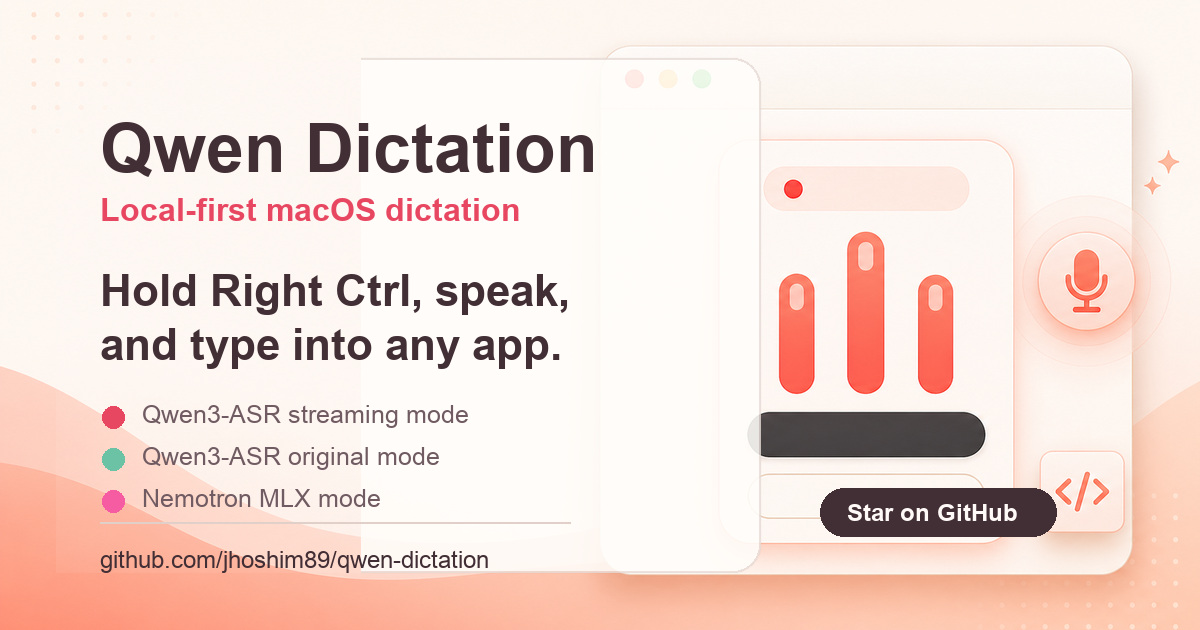
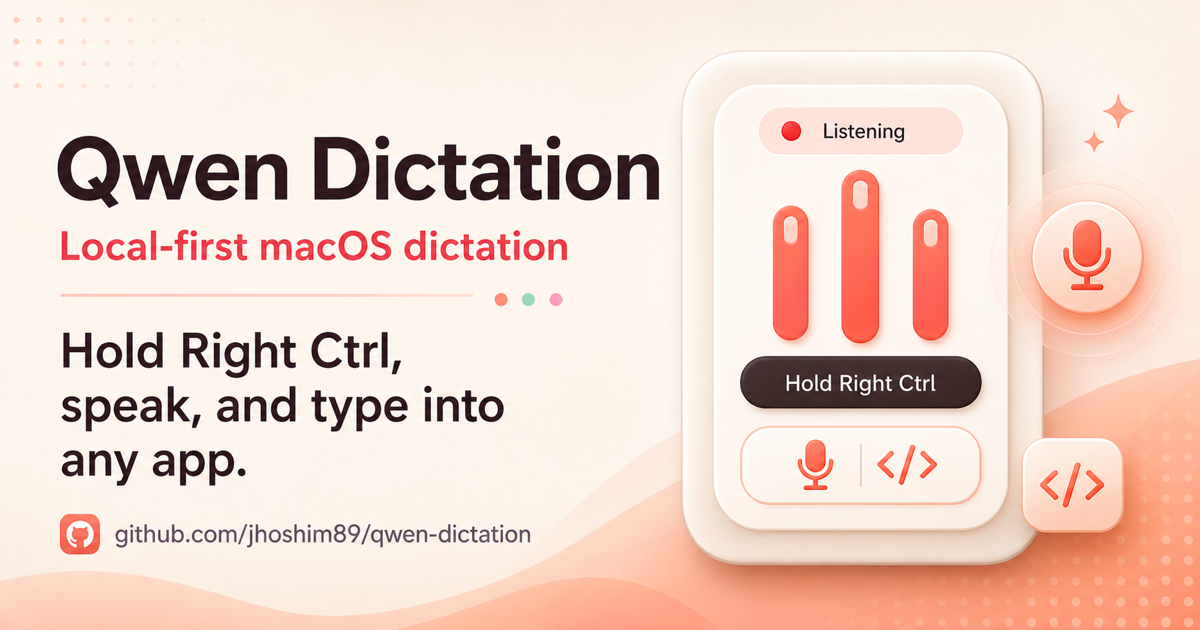
docs: show Imagen social preview

diff --git a/docs/index.html b/docs/index.html
@@ -40,10 +40,7 @@
       min-height: 88vh;
       display: grid;
       grid-template-rows: auto 1fr;
-      background:
-        linear-gradient(90deg, rgba(247,241,233,.97) 0%, rgba(247,241,233,.92) 45%, rgba(247,241,233,.18) 72%, rgba(247,241,233,0) 100%),
-        url("hud-current-preview.svg?v=20260701-contrast") right 4% center / min(46vw, 650px) auto no-repeat,
-        var(--paper);
+      background: var(--paper);
       border-bottom: 1px solid var(--line);
     }
     nav {
@@ -72,6 +69,8 @@
       width: min(1120px, calc(100% - 40px));
       margin: 0 auto;
       display: grid;
+      grid-template-columns: minmax(0, 0.9fr) minmax(360px, 0.95fr);
+      gap: clamp(28px, 5vw, 72px);
       align-items: center;
       padding: 56px 0 84px;
     }
@@ -123,6 +122,12 @@
       margin-top: 14px;
       font-size: 14px;
       color: var(--muted);
+    }
+    .hero-preview {
+      width: 100%;
+      border: 1px solid var(--line);
+      border-radius: 8px;
+      box-shadow: 0 18px 45px rgba(36,33,42,.08);
     }
     main section {
       padding: 72px clamp(20px, 5vw, 72px);
@@ -231,12 +236,13 @@
     @media (max-width: 860px) {
       .hero {
         min-height: auto;
-        background:
-          linear-gradient(180deg, rgba(247,241,233,.98) 0%, rgba(247,241,233,.88) 55%, rgba(247,241,233,.08) 100%),
-          url("hud-current-preview.svg?v=20260701-contrast") center bottom 28px / min(92vw, 560px) auto no-repeat,
-          var(--paper);
+        background: var(--paper);
       }
-      .hero-inner { padding-bottom: 260px; }
+      .hero-inner {
+        grid-template-columns: 1fr;
+        padding-bottom: 48px;
+      }
+      .hero-preview { order: -1; }
       .split, .features { grid-template-columns: 1fr; }
       nav { align-items: flex-start; }
       .navlinks { gap: 12px; }
@@ -264,6 +270,7 @@
         </div>
         <p class="star-note">Developer MVP. A GitHub star helps other local-ASR Mac users find it.</p>
       </div>
+      <img class="hero-preview" src="social-preview.png?v=20260701-imagen" alt="Qwen Dictation social preview">
     </div>
   </header>
   <main>

diff --git a/tests/test_brand_assets.py b/tests/test_brand_assets.py
@@ -31,6 +31,7 @@ def test_docs_landing_uses_warm_jelly_tokens():
     assert "#c3215a" not in html
     assert "#811d4a" not in html
     assert "pretendard" in html
+    assert 'class="hero-preview" src="social-preview.png?v=20260701-imagen"' in html
 
 
 def test_hud_text_pill_exception_is_documented():